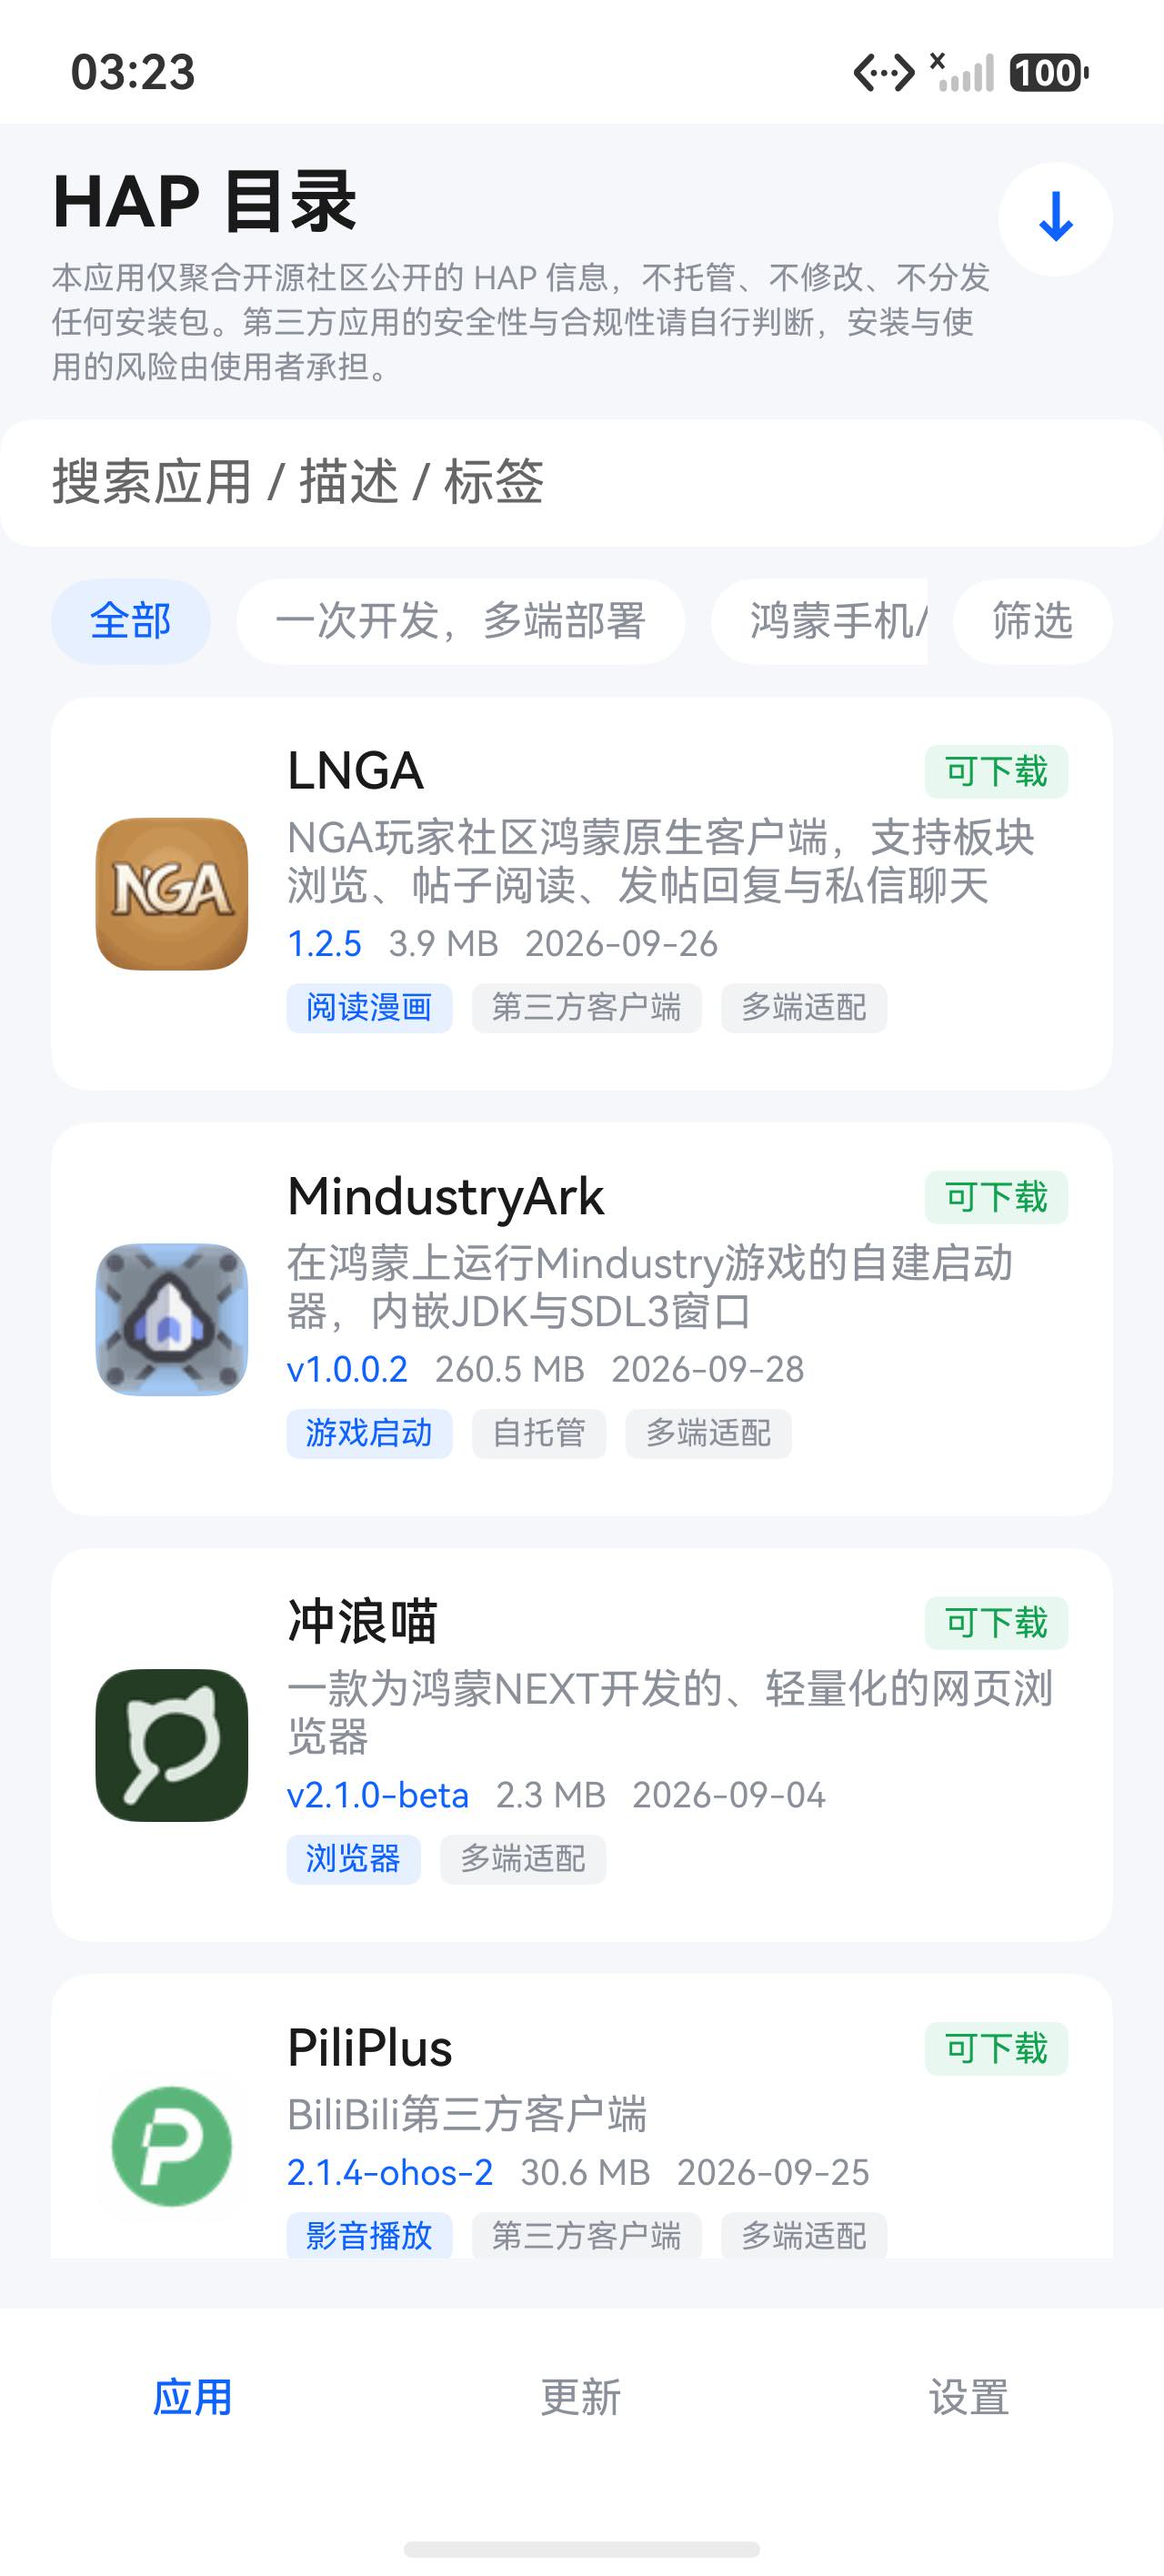
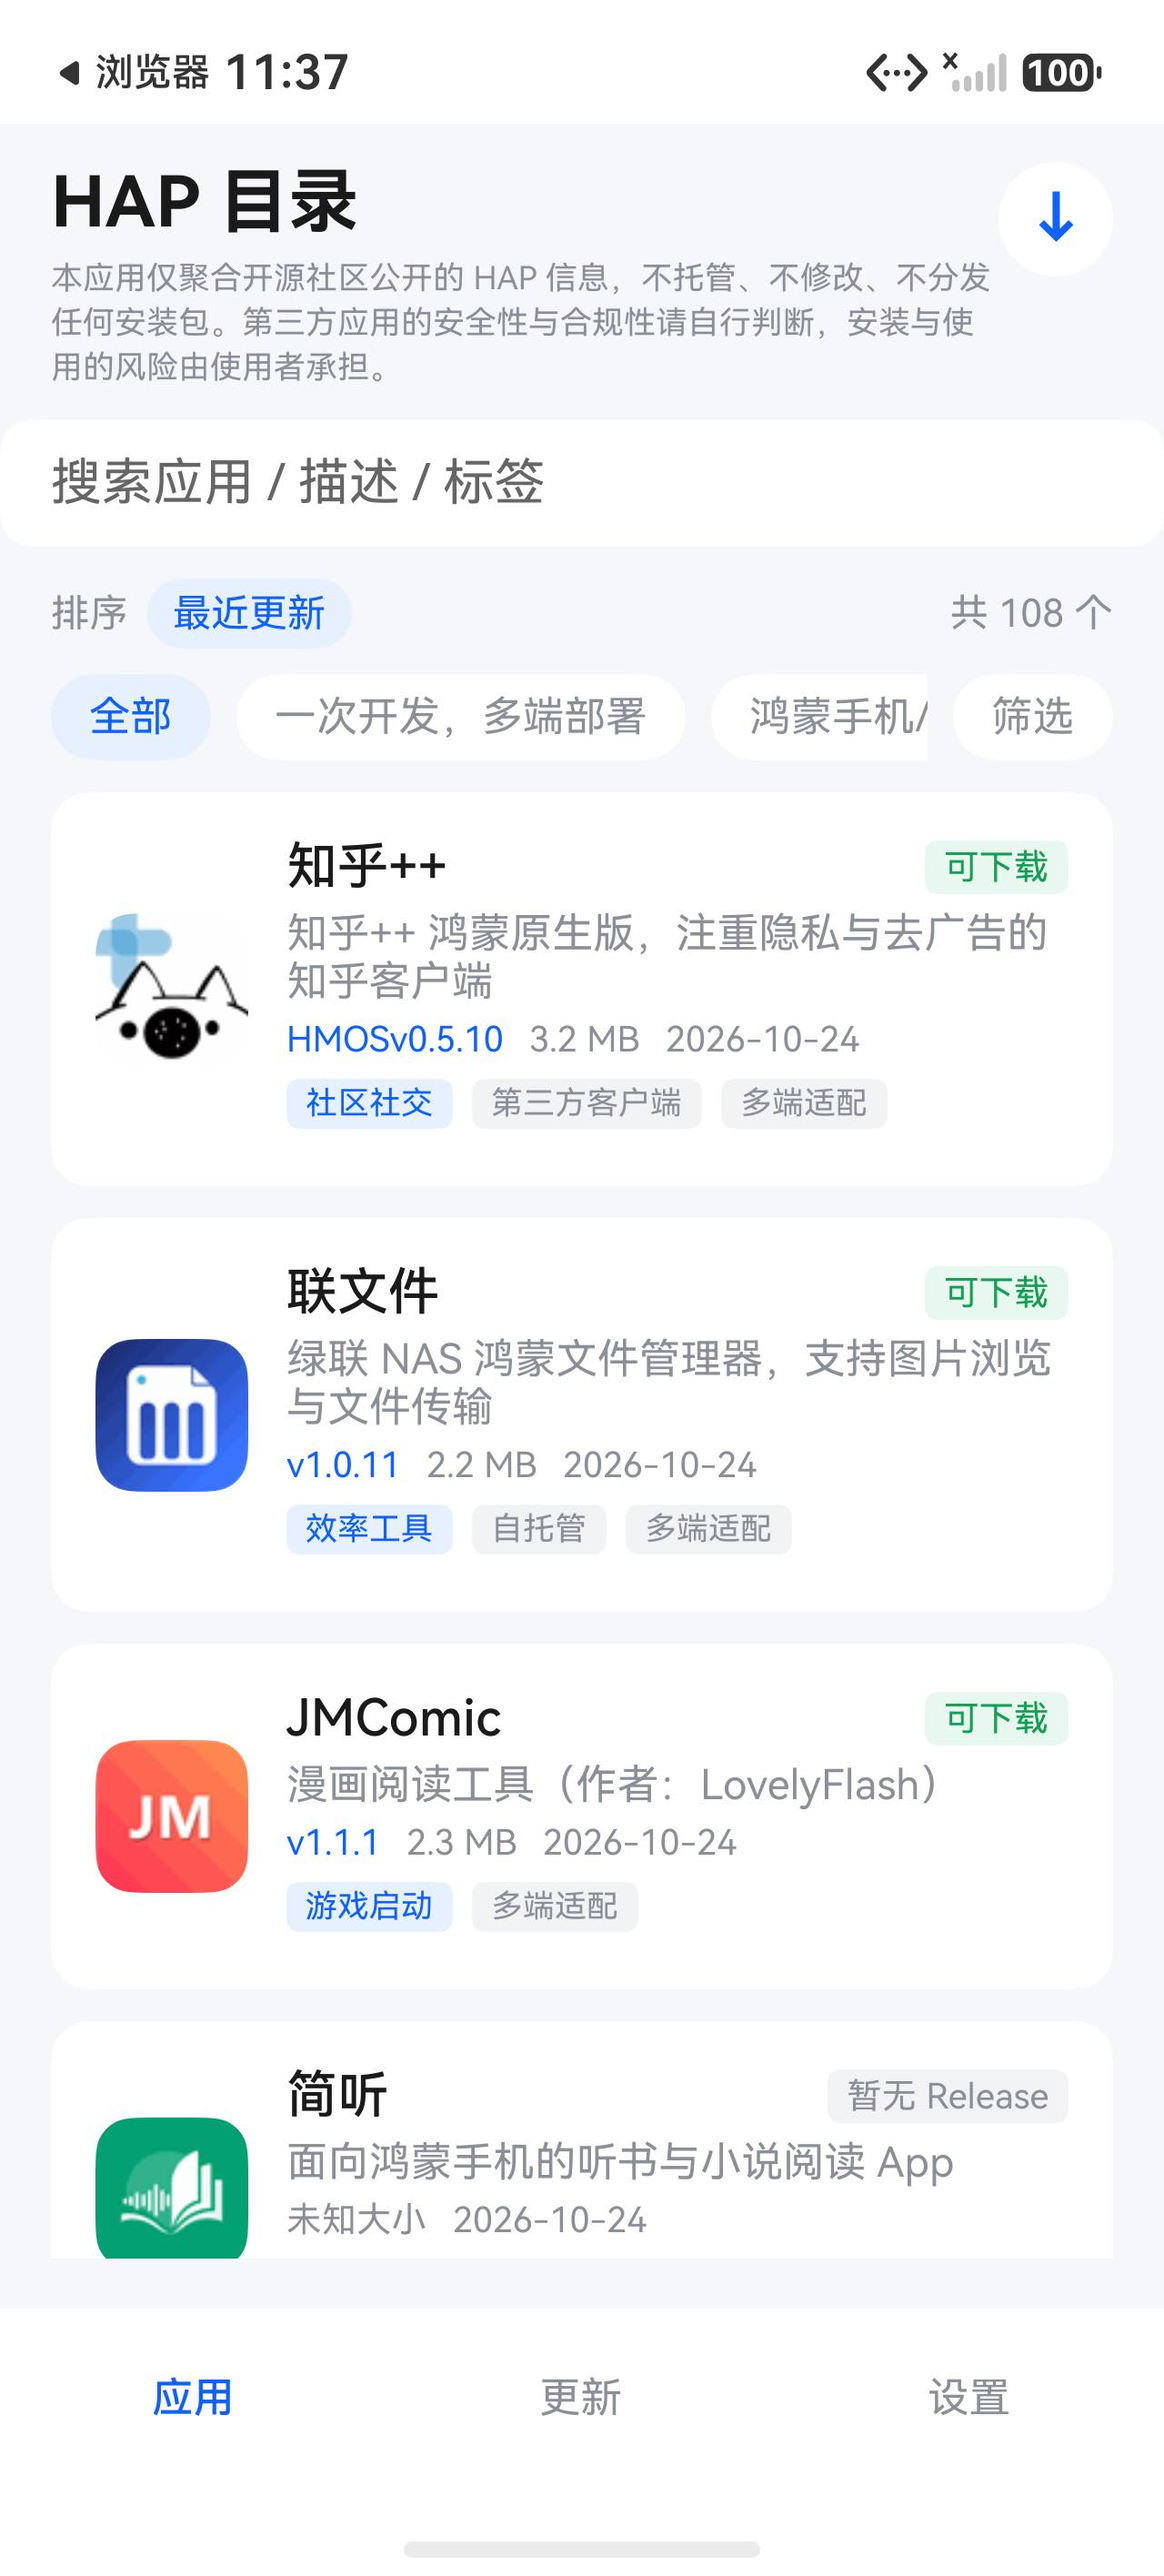
docs: 更新应用截图到 v1.0.1 界面
- 4 张截图全部重截（应用列表 / 详情 / 下载管理 / 设置），尺寸规格保持 1280x2832
- 新增「更新」页截图（docs/screenshots/updates.jpeg），
  展示一键检查更新与数据快照卡片
- README 界面区块重排为 应用列表+详情 / 更新+下载管理 / 设置

diff --git a/README.md b/README.md
@@ -78,9 +78,13 @@ App 会自动识别、递归解开，然后引导你装真正的 HAP。
 |---|---|
 | ![应用列表](docs/screenshots/apps.jpeg) | ![详情与下载](docs/screenshots/detail.jpeg) |
 
-| 下载管理 | 设置 |
+| 更新 | 下载管理 |
 |---|---|
-| ![下载管理](docs/screenshots/downloads.jpeg) | ![设置](docs/screenshots/settings.jpeg) |
+| ![更新](docs/screenshots/updates.jpeg) | ![下载管理](docs/screenshots/downloads.jpeg) |
+
+| 设置 |
+|---|
+| ![设置](docs/screenshots/settings.jpeg) |
 
 ---
 
